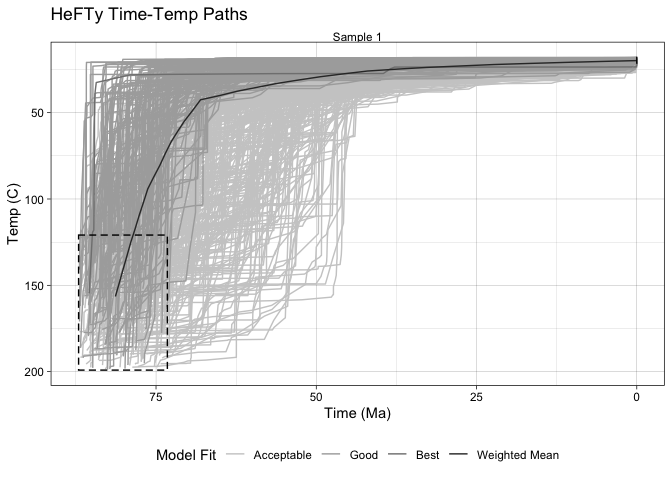
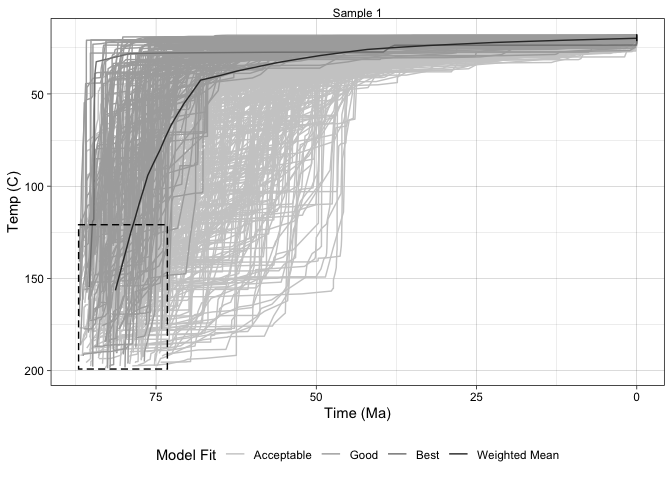
Updated to add date-eU plot functionality and the ability to shuffle HeFTy and date-eU plots together. Updated the documentation and description to reflect changes

diff --git a/README.md b/README.md
@@ -18,8 +18,9 @@ history modelling software HeFTy at the end of an inverse model run and
 plots them as a single panel (for one model) or a faceted grid (for
 multiple models)
 
-Future versions will have tools to make date-eU plots from the AHe data
-and plot these as a shuffled grid with HeFTy models
+This can also make make date-eU plots from the AHe data and plot these
+as a shuffled grid with HeFTy models to show data and models side by
+side.
 
 ## Installation
 
@@ -75,9 +76,9 @@ order)
 
 ``` r
 fn=system.file("extdata","HeFTyOut-Sample1.txt",package="thermochronplotr")
-samplename = 'Sample 1'
+samplename = 'Sample1'
 fn2=system.file("extdata","HeFTyOut-Sample2.txt",package="thermochronplotr")
-samplename2 = 'Sample 2'
+samplename2 = 'Sample2'
 
 fns = c(fn, fn2)
 sns = c(samplename,samplename2)
@@ -91,3 +92,80 @@ plot2
 <img src="man/figures/README-unnamed-chunk-4-1.png" width="100%" />
 
 Again, `plot2` is a `ggplot` object and can be customized
+
+### date-eU plots for multiple samples
+
+To use this function you must first create or read in a dataframe with
+(U-Th)/He data that has columns labeled “eU”, “Date”, “Unc”,“Color”, and
+“Sample”, where eU is the effective Uranium, Date is the (U-Th)/He date,
+Unc is the uncertaity (for error bars), and Sample is the sample name
+(only truly required if you have more than one sample you are trying to
+plot)
+
+``` r
+fn=system.file("extdata","AHe_data.csv",package="thermochronplotr")
+hedf<-readr::read_csv(fn)
+#> Warning: Missing column names filled in: 'X1' [1]
+#> Parsed with column specification:
+#> cols(
+#>   .default = col_double(),
+#>   Sample = col_character(),
+#>   Grain = col_character(),
+#>   Color = col_character(),
+#>   Description = col_character(),
+#>   Elevation_m = col_character(),
+#>   Sample_cat = col_character()
+#> )
+#> See spec(...) for full column specifications.
+plot3 = plot_date_eu(hedf)
+plot3
+```
+
+<img src="man/figures/README-unnamed-chunk-5-1.png" width="100%" /> If
+you have split your data into bins to model in heFTy, you can denote
+where these are separated with vertical dashed lines by inputing the
+`eUbin` value(s) for example if your low eU bin was \<15ppm, you would
+put in `eUbin=15`. If you had low, medium, and high eU bins split at
+\<15ppm, 15-30 ppm, and \>30ppm, you would put in `eUbin=c(15,30)`.
+
+If you had forward models that you want to plot predicted date-eU paths
+you can plot these by adding a second dataframe, `bestfitdf`, with those
+predictions. Again this dataframe needs to have columns “Date” and “eU”
+(and “Sample” if there are multiple
+samples:
+
+``` r
+fn2=system.file("extdata","ForwardModels.csv",package="thermochronplotr")
+bestfitdf <- readr::read_csv(fn2)
+#> Warning: Missing column names filled in: 'X1' [1]
+#> Parsed with column specification:
+#> cols(
+#>   X1 = col_double(),
+#>   eU = col_double(),
+#>   Date = col_double(),
+#>   Sample = col_character(),
+#>   Description = col_character(),
+#>   Elevation_m = col_character(),
+#>   Sample_cat = col_character()
+#> )
+plot4 = plot_date_eu(hedf,bestfitdf,eUbin=c(15,30))
+plot4
+```
+
+<img src="man/figures/README-unnamed-chunk-6-1.png" width="100%" />
+Again, plots 3 and 4 are ggplot objects that can be modified
+
+### Shuffling HeFTy and Date-eU plots
+
+Often it is nice to look at the data and the models together, so we can
+create a plot that places them side by side for the same sample. The
+inputs are the same as for the individual HeFTy or date-eU plots, so we
+can use the dataframes loaded earlier in the examples. Note that it is
+required that you have a forward model `bestfitdf` to run this function.
+
+``` r
+plot5 = shuffle_plots(hedf,bestfitdf,dfplot2,cons2)
+plot5
+```
+
+<img src="man/figures/README-unnamed-chunk-7-1.png" width="100%" />
